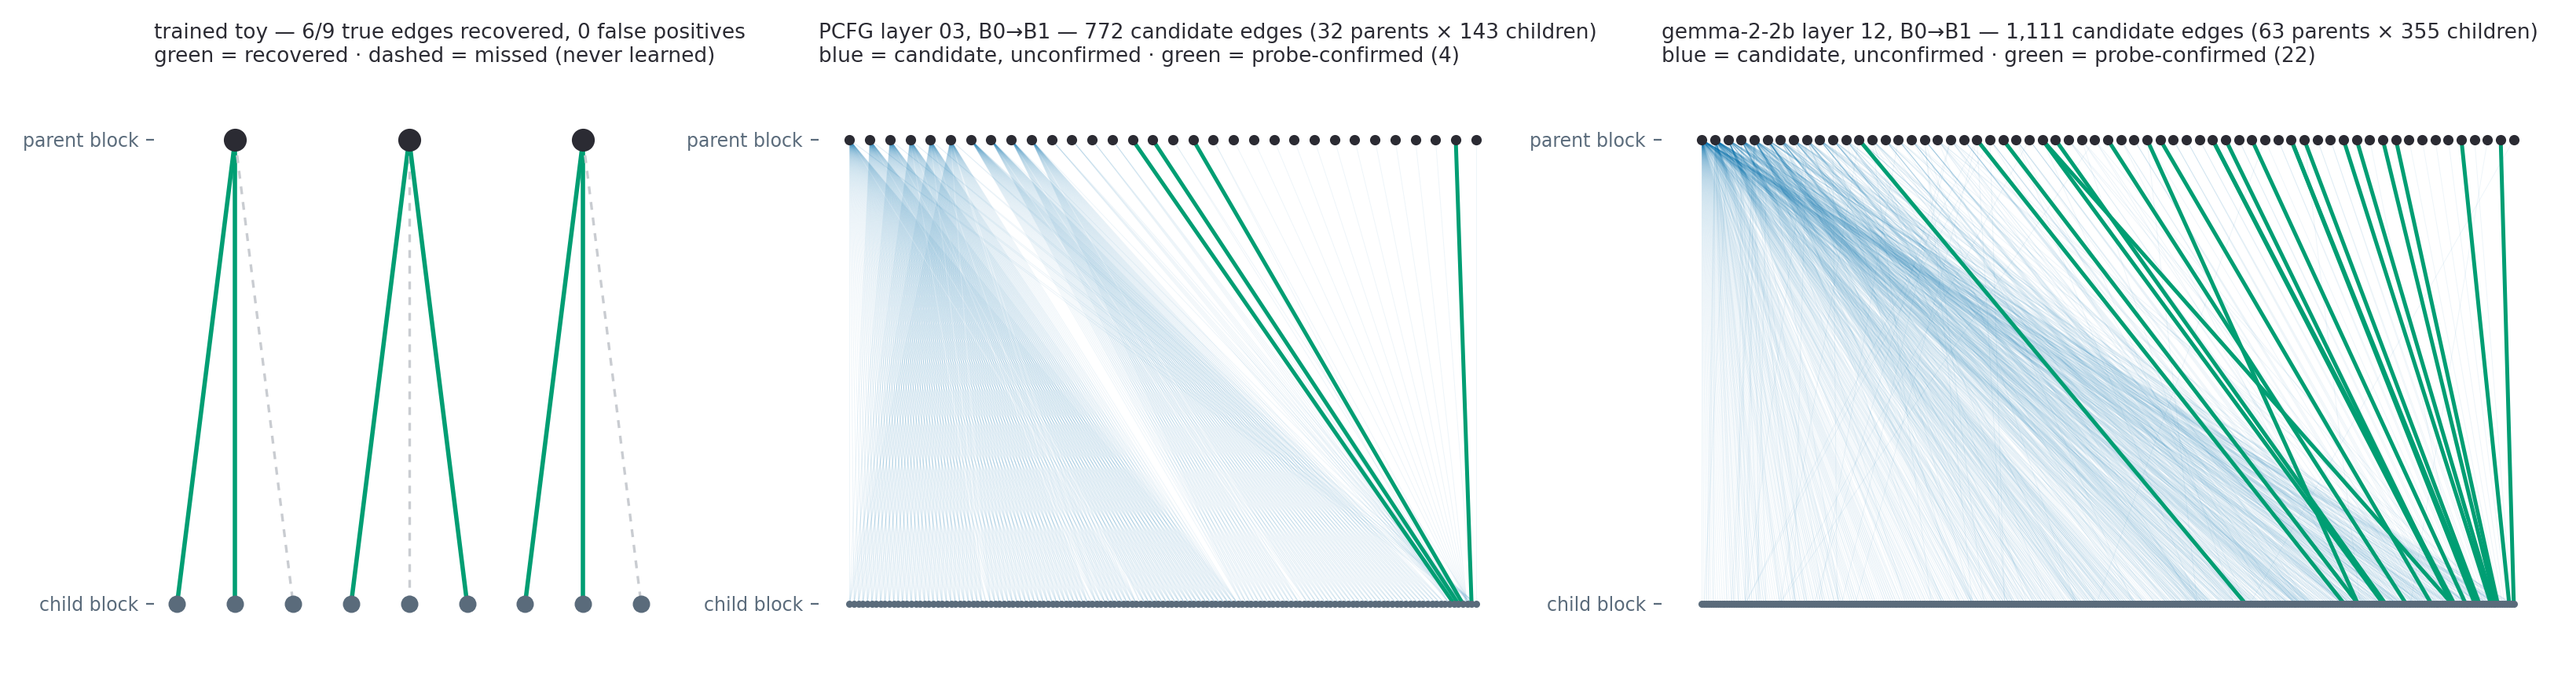
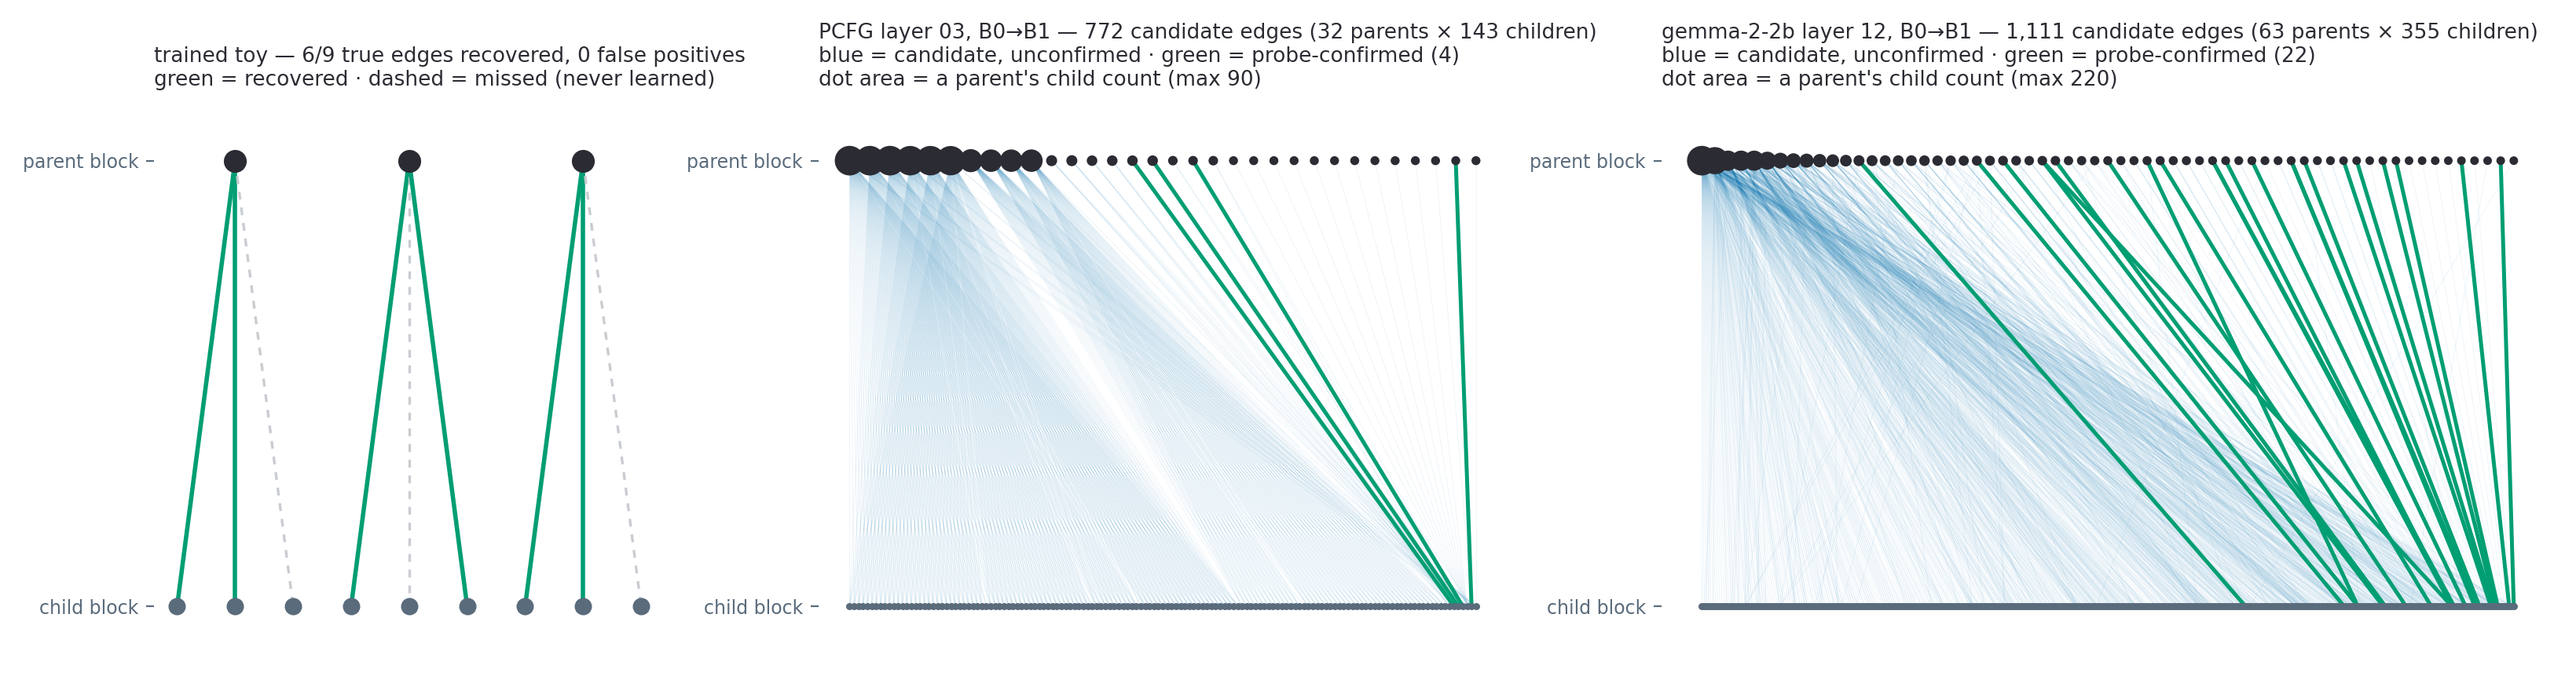
perf(reporting): scale parent node size by child count in visualizations
Implement dynamic scaling for parent node sizes in recovered graph
plots to visually highlight "hub" parents. This change improves the
interpretability of dense or tangled graph structures by making
high-degree nodes more prominent.

Key changes:
- Update `make_report_figures.py` to calculate node size based on
  relative degree.
- Add `one_parent_owns_the_block` function to generate case study
  visualizations of parent ownership concentration.
- Update `figures.tex` to reflect the new visual encoding of parent
  node areas.
- Regenerate `recovered_graph_toy_vs_gemma.png` with updated scaling.

diff --git a/reporting/make_report_figures.py b/reporting/make_report_figures.py
@@ -1300,11 +1300,17 @@ def recovered_graph_toy_vs_gemma(tt, sp, where, sp_pcfg=None, where_pcfg=""):
                 n_pass += 1
                 ax.plot([px[e["parent"]], cx[e["child"]]], [1, 0], lw=1.8,
                         color=GOOD, zorder=3)
-        ax.scatter(list(px.values()), [1] * len(px), s=14, color=INK, zorder=4)
+        # parent dot AREA scales with its child count, so the hub parents that
+        # own most of the tangle are visible at a glance instead of hiding in a
+        # uniform row of dots
+        max_deg = max(deg.values())
+        sizes = [8 + 150 * deg[p] / max_deg for p in px]
+        ax.scatter(list(px.values()), [1] * len(px), s=sizes, color=INK, zorder=4)
         ax.scatter(list(cx.values()), [0] * len(cx), s=5, color=MUTED, zorder=4)
-        key = (f"blue = candidate, unconfirmed · green = probe-confirmed ({n_pass})"
-               if n_pass else
-               "blue = candidate, unconfirmed · probe-confirmed: none")
+        key = ((f"blue = candidate, unconfirmed · green = probe-confirmed ({n_pass})"
+                if n_pass else
+                "blue = candidate, unconfirmed · probe-confirmed: none")
+               + f"\ndot area = a parent's child count (max {max_deg})")
         ax.set_title(f"{label} — {len(edges):,} candidate edges "
                      f"({len(px)} parents × {len(cx)} children)\n" + key,
                      fontsize=9.5, loc="left")
@@ -1327,6 +1333,79 @@ def recovered_graph_toy_vs_gemma(tt, sp, where, sp_pcfg=None, where_pcfg=""):
            "are the structure", width=110)
     fig.subplots_adjust(top=0.80)
     return _finish(fig, axes, "recovered_graph_toy_vs_gemma")
+
+
+# ---------------------------------------------------------------------------
+# 10b. The hub, isolated: the single biggest parent of the released SAE's top
+#      block pair, drawn with every child it claims — the case study behind
+#      the tangle. Left: the fan itself. Right: how ownership of ALL candidate
+#      edges concentrates in the few biggest parents.
+# ---------------------------------------------------------------------------
+def one_parent_owns_the_block(sp, where):
+    edges = sp["0->1"]["sres"]["edges"]
+    deg: dict = {}
+    for e in edges:
+        deg[e["parent"]] = deg.get(e["parent"], 0) + 1
+    parents = sorted(deg, key=lambda p: -deg[p])
+    children = sorted({e["child"] for e in edges})
+    top = parents[0]
+    top_kids = {e["child"] for e in edges if e["parent"] == top}
+
+    fig, axes = plt.subplots(1, 2, figsize=(11.0, 4.2),
+                             gridspec_kw={"width_ratios": [1.6, 1]})
+
+    # -- left: the fan ------------------------------------------------------
+    ax = axes[0]
+    cy = {c: i / max(len(children) - 1, 1) for i, c in enumerate(children)}
+    for c in top_kids:
+        ax.plot([0.06, 0.94], [0.5, cy[c]], lw=0.7, color=CAT[0],
+                alpha=0.45, zorder=1)
+    claimed = [cy[c] for c in children if c in top_kids]
+    others = [cy[c] for c in children if c not in top_kids]
+    ax.scatter([0.94] * len(claimed), claimed, s=14, color=CAT[0], zorder=3)
+    ax.scatter([0.94] * len(others), others, s=6, color=NEUTRAL, zorder=2)
+    ax.scatter([0.06], [0.5], s=340, color=INK, zorder=4)
+    ax.annotate("one parent feature",
+                xy=(0.06, 0.5), xytext=(0.13, 0.93), fontsize=9, color=INK,
+                arrowprops=dict(arrowstyle="-", lw=0.8, color=MUTED))
+    ax.text(0.985, 0.5,
+            f"{len(top_kids)} of {len(children)} children claimed "
+            f"({100 * len(top_kids) / len(children):.0f}%)",
+            rotation=90, va="center", fontsize=9, color=CAT[0])
+    ax.set_xlim(0, 1.05)
+    ax.set_ylim(-0.04, 1.04)
+    ax.set_xticks([]); ax.set_yticks([])
+    for s in ax.spines.values():
+        s.set_visible(False)
+    ax.set_title(f"{where} — the single biggest parent, and every child it claims\n"
+                 "grey = the children it does not", fontsize=9.5, loc="left")
+
+    # -- right: who owns the candidate edges --------------------------------
+    ax = axes[1]
+    total = len(edges)
+    shares = [("top 1 parent", deg[parents[0]] / total),
+              ("top 5", sum(deg[p] for p in parents[:5]) / total),
+              ("top 10", sum(deg[p] for p in parents[:10]) / total),
+              (f"all {len(parents)}", 1.0)]
+    for i, (lab, v) in enumerate(shares):
+        ax.barh(i, 100 * v, height=0.55, color=CAT[0] if i < 3 else NEUTRAL)
+        ax.text(100 * v + 2, i, f"{100 * v:.0f}%", va="center", fontsize=9,
+                color=MUTED)
+    ax.set_yticks(range(len(shares)))
+    ax.set_yticklabels([lab for lab, _ in shares], fontsize=9)
+    ax.invert_yaxis()
+    ax.set_xlim(0, 118)
+    ax.set_xticks([0, 25, 50, 75, 100])
+    ax.set_xlabel(f"share of the {total:,} candidate edges", fontsize=9)
+    ax.set_title("who owns the edges", fontsize=9.5, loc="left")
+    ax.grid(True, axis="x", alpha=0.12)
+    ax.set_axisbelow(True)
+
+    _title(fig, "One parent owns the block",
+           "the hub structure behind the tangle, isolated: a single always-on feature "
+           "claims most of the next block", width=100)
+    fig.subplots_adjust(top=0.80)
+    return _finish(fig, axes, "one_parent_owns_the_block")
 
 
 # ---------------------------------------------------------------------------
@@ -1567,6 +1646,11 @@ def build(dry: bool) -> tuple[list[str], list[tuple[str, str]]]:
         lambda: recovered_graph_toy_vs_gemma(tt, s_gl,
                                              f"gemma-2-2b layer {GRAPH_LAYER}, B0→B1",
                                              sp_p, f"{sp_p_name}, B0→B1"))
+
+    run("one_parent_owns_the_block", bool(s_gl),
+        f"gemma layer_{GRAPH_LAYER:02d} second_pass.json"
+        if s_gl else "needs the gemma second_pass.json at GRAPH_LAYER",
+        lambda: one_parent_owns_the_block(s_gl, f"gemma-2-2b layer {GRAPH_LAYER}, B0→B1"))
 
     # the formatting-density sweep runs, named fmt_<density*1e4>_s<seed>
     fmt_runs = []
@@ -1955,7 +2039,8 @@ def _captions():
             f"only the {s['n_pass']} probe-confirmed edges in green." + grad +
             " Each child is placed "
             "beneath its best-matching parent, so a clean hierarchy would appear as "
-            "near-vertical lines.")
+            "near-vertical lines, and a parent's dot area scales with its child count, "
+            "so the hub parents that own most of the tangle are visible at a glance.")
 
     fmt_dirs = sorted((C.OUT_DIR / "pcfg-matryoshka").glob("fmt_*"))
     if fmt_dirs:
@@ -2011,6 +2096,8 @@ TEX_ORDER = [
      "The same tree, after a real training run.", None),
     ("APP 1", "tangle_lives_in_top_block_pair", True,
      "The tangle lives in the coarsest block pair, on both sources.", "Appendix"),
+    ("APP 1b", "one_parent_owns_the_block", False,
+     "One parent owns the block: the hub behind the tangle, isolated.", None),
     ("APP 2", "base_rate_vs_frequency_capture", False,
      "The over-connection is a base-rate effect, not token-frequency capture.",
      "The bottleneck-hijacking hypothesis, tested"),

diff --git a/outputs/paper_figuers/figures.tex b/outputs/paper_figuers/figures.tex
@@ -86,7 +86,8 @@
     1,792-latent SAE over a small transformer, a 32,768-latent SAE over a 2B-parameter LLM),
     and the recovered structure degrades in step: a clean tree, a small tangle, a dense one.
     Each child is placed beneath its best-matching parent, so a clean hierarchy would appear
-    as near-vertical lines.
+    as near-vertical lines, and a parent's dot area scales with its child count, so the hub
+    parents that own most of the tangle are visible at a glance.
   }
   \label{fig:recovered-graph}
 \end{figure}
